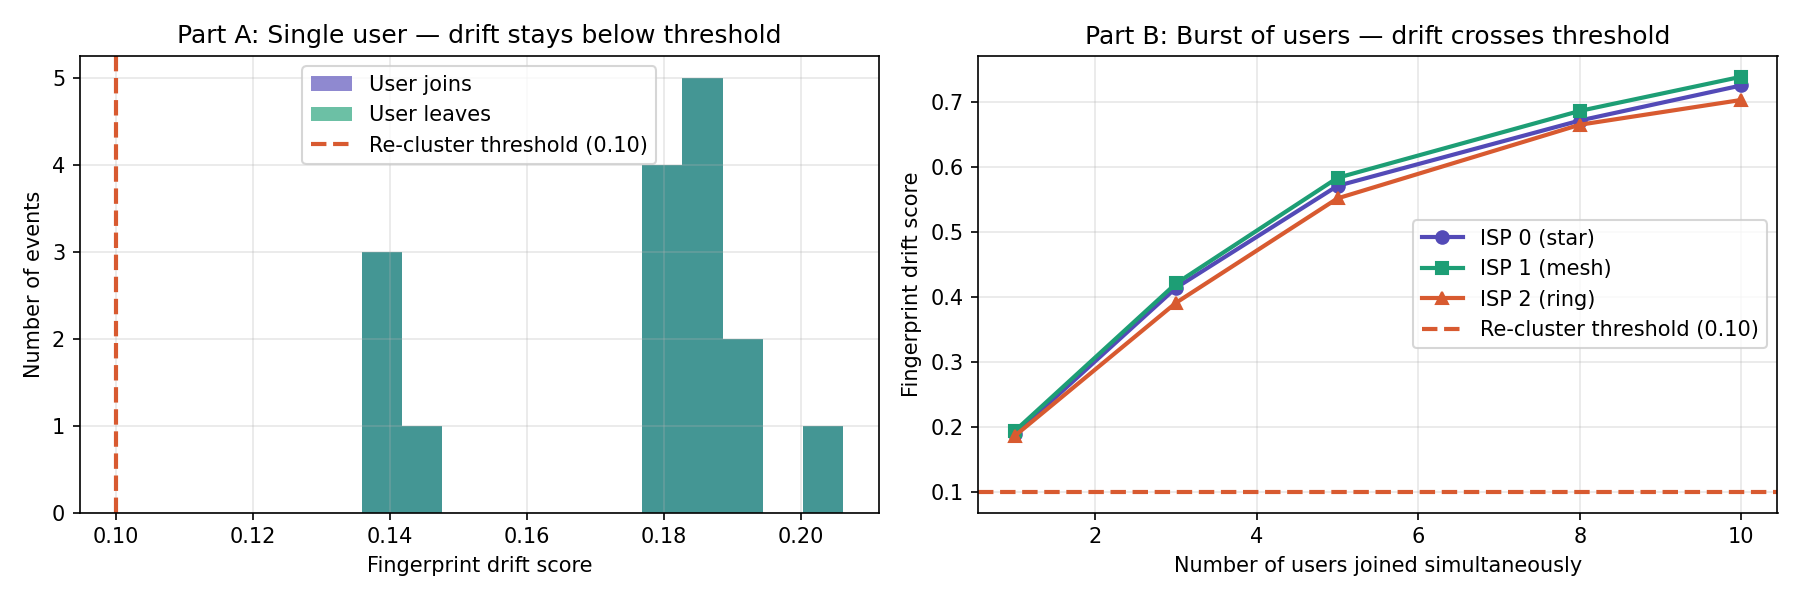
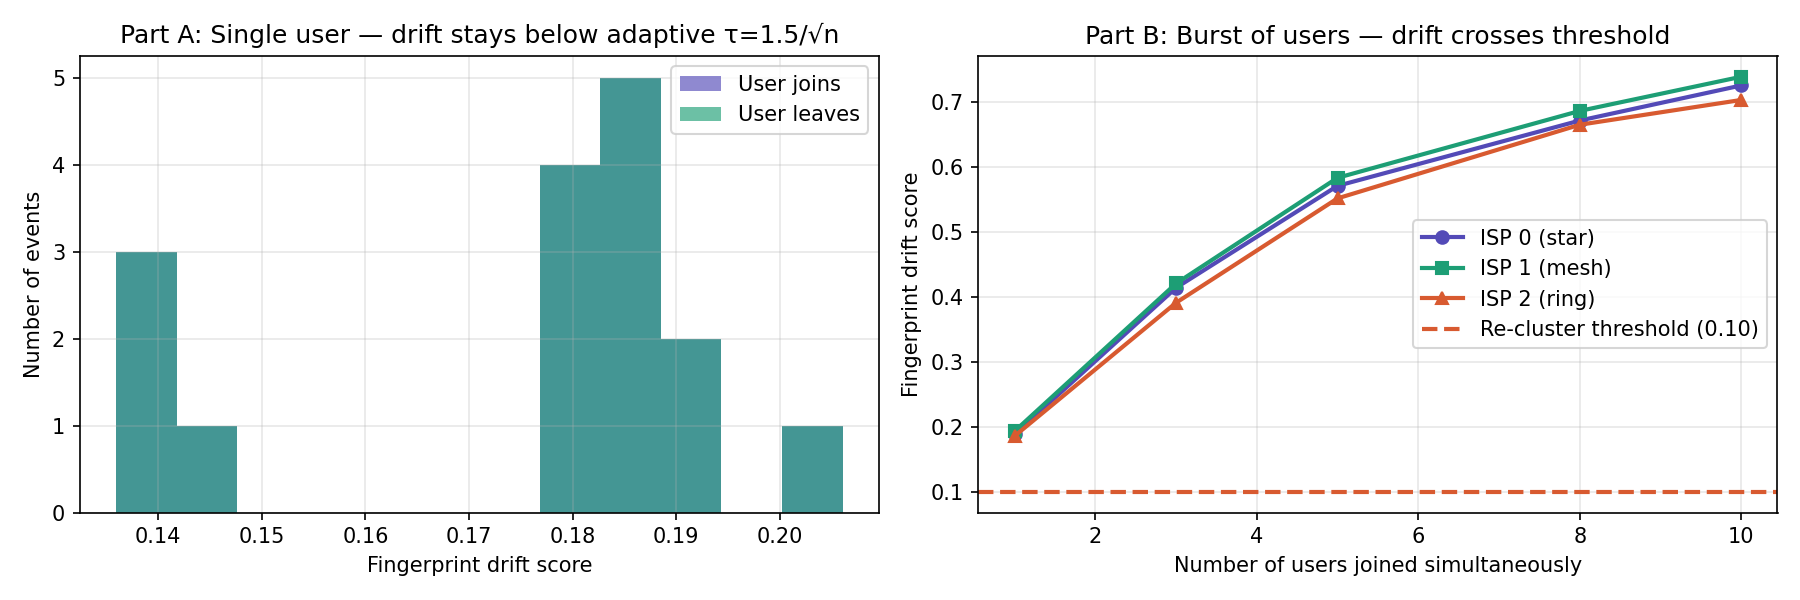
my change

Changed region(s): [[0.0622, 0.03, 0.4978, 0.9], [0.0622, 0.42, 0.1556, 0.93]]

diff --git a/main.py b/main.py
@@ -75,7 +75,7 @@ def experiment_clustering_quality(clients, k=20):
 
 
 # ── Experiment 2: Privacy vs clustering accuracy tradeoff ─────────────────────
-def experiment_privacy_tradeoff(clients, k=20):
+def experiment_privacy_tradeoff(clients, k=20, prefix="synthetic"):
     print("\n" + "=" * 60)
     print("EXPERIMENT 2: Privacy (epsilon) vs clustering quality")
     print("=" * 60)
@@ -134,20 +134,20 @@ def experiment_privacy_tradeoff(clients, k=20):
     ax2.grid(True, alpha=0.3)
 
     plt.tight_layout()
-    plt.savefig("results/privacy_tradeoff.png", dpi=150)
-    print(f"\n  Plot saved to results/privacy_tradeoff.png")
+    plt.savefig(f"results/privacy_tradeoff_{prefix}.png", dpi=150)
+    print(f"\n  Plot saved to results/privacy_tradeoff_{prefix}.png")
     return results
 
 
 # ── Experiment 3: Dynamic user join/leave ─────────────────────────────────────
-def experiment_user_dynamics(clients, k=20):
+def experiment_user_dynamics(clients, k=20, prefix="synthetic"):
     print("\n" + "=" * 60)
     print("EXPERIMENT 3: Dynamic user join/leave inside ISP networks")
     print("=" * 60)
 
     # Part A: single user sessions (expected: low drift, no re-cluster)
     print("\n  Part A: Single user join/leave sessions")
-    print("  (expected drift < 0.10 threshold — no re-cluster)")
+    print("  (adaptive threshold τ=1.5/√n — no re-cluster expected for single users)")
 
     all_drifts_join  = []
     all_drifts_leave = []
@@ -155,10 +155,13 @@ def experiment_user_dynamics(clients, k=20):
     total_events     = {"join": 0, "leave": 0}
 
     for client in clients:
-        print(f"\n  ISP {client.client_id} ({client.topo_type}, "
-              f"{client.num_nodes} nodes):")
+        import math
+        tau = 1.5 / math.sqrt(client.num_nodes)
+        topo_label = client.topo_type if client.topo_type not in ("unknown", "", None) else f"partition"
+        print(f"\n  ISP {client.client_id} ({topo_label}, "
+              f"{client.num_nodes} nodes, τ={tau:.4f}):")
 
-        handler = GraphDynamicsHandler(drift_threshold=0.10, epsilon=1.0)
+        handler = GraphDynamicsHandler(epsilon=1.0)
         G = client.graph.copy()
 
         # Simulate 4 single-user sessions on this ISP
@@ -190,31 +193,47 @@ def experiment_user_dynamics(clients, k=20):
     print("  " + "-"*54)
 
     burst_results = []
+    # Track per-burst-size results for summary table
+    burst_summary = {}   # {n_users: {"drifts": [], "taus": [], "reclusters": []}}
+    burst_sizes   = [1, 3, 5, 8, 10]
+    for n in burst_sizes:
+        burst_summary[n] = {"drifts": [], "taus": [], "reclusters": []}
+
     for client in clients[:3]:   # show on 3 ISPs for brevity
-        print(f"\n  ISP {client.client_id} ({client.topo_type}):")
+        topo_label = client.topo_type if client.topo_type not in ("unknown", "", None) else f"partition"
+        print(f"\n  ISP {client.client_id} ({topo_label}):")
         from core.topology_embedding import compute_fingerprint
 
         fp_original = compute_fingerprint(client.graph, k=k)
         G_burst = client.graph.copy()
         joined_nodes = []
-        handler_burst = GraphDynamicsHandler(drift_threshold=0.10, epsilon=1.0)
+        handler_burst = GraphDynamicsHandler(epsilon=1.0)
+        n_original = client.graph.number_of_nodes()  # reference graph size
 
-        for n_users in [1, 3, 5, 8, 10]:
+        for n_users in burst_sizes:
             # Add one more user to reach n_users total
-            current_count = len(joined_nodes)
             while len(joined_nodes) < n_users:
                 router = int(list(G_burst.nodes())[len(joined_nodes) % G_burst.number_of_nodes()])
                 G_burst, new_node = handler_burst.user_joins(G_burst, router_id=router)
                 joined_nodes.append((new_node, router))
 
             fp_current = compute_fingerprint(G_burst, k=k)
-            from core.topology_embedding import fingerprint_drift
-            drift = fingerprint_drift(fp_original, fp_current)
+            from core.topology_embedding import fingerprint_drift, compute_adaptive_threshold
+            # Use adaptive threshold with burst size m=n_users
+            drift = fingerprint_drift(fp_original, fp_current,
+                                      n_nodes=n_original, m_users=n_users)
+            tau = compute_adaptive_threshold(n_original, n_users)
             recluster = drift["should_recluster"]
             burst_results.append(drift["drift_score"])
+
+            # Store for summary
+            burst_summary[n_users]["drifts"].append(drift["drift_score"])
+            burst_summary[n_users]["taus"].append(tau)
+            burst_summary[n_users]["reclusters"].append(recluster)
+
             flag = " <-- RE-CLUSTER TRIGGERED" if recluster else ""
             print(f"    {n_users:2d} users joined | drift={drift['drift_score']:.4f} | "
-                  f"re-cluster={recluster}{flag}")
+                  f"τ={tau:.4f} | re-cluster={recluster}{flag}")
 
         # Now all users leave one by one
         print(f"    Users leaving:")
@@ -227,6 +246,21 @@ def experiment_user_dynamics(clients, k=20):
         print(f"    All {len(joined_nodes)} users left | "
               f"drift from original={drift_after['drift_score']:.6f} | "
               f"Graph restored: {G_leave.number_of_nodes()} == {client.graph.number_of_nodes()} nodes")
+
+    # ── Part B Summary Table ───────────────────────────────────────────────
+    print(f"\n  {'='*64}")
+    print(f"  Part B summary — burst users (averaged over 3 topologies):")
+    print(f"  {'Users (m)':>10} {'Avg τ':>10} {'Avg Drift':>12} {'Re-clusters':>13} {'Triggered?':>11}")
+    print(f"  {'-'*64}")
+    for n_users in burst_sizes:
+        data       = burst_summary[n_users]
+        avg_tau    = np.mean(data["taus"])
+        avg_drift  = np.mean(data["drifts"])
+        n_recl     = sum(data["reclusters"])
+        total_isp  = len(data["reclusters"])
+        triggered  = "YES ✓" if n_recl > 0 else "no"
+        print(f"  {n_users:>10} {avg_tau:>10.4f} {avg_drift:>12.4f} "
+              f"{n_recl:>5}/{total_isp:<7} {triggered:>11}")
 
     # Summary across all ISPs
     print(f"\n  {'='*56}")
@@ -249,35 +283,43 @@ def experiment_user_dynamics(clients, k=20):
              label="User joins",  color="#534AB7")
     ax1.hist(all_drifts_leave, bins=12, alpha=0.65,
              label="User leaves", color="#1D9E75")
-    ax1.axvline(x=0.10, color="#D85A30", linestyle="--", lw=2,
-                label="Re-cluster threshold (0.10)")
     ax1.set_xlabel("Fingerprint drift score")
     ax1.set_ylabel("Number of events")
-    ax1.set_title("Part A: Single user — drift stays below threshold")
+    ax1.set_title("Part A: Single user — drift stays below adaptive τ=1.5/√n")
     ax1.legend()
     ax1.grid(True, alpha=0.3)
 
     # Plot: burst drift vs number of users
     burst_x = [1, 3, 5, 8, 10]
-    ax2.plot(burst_x, burst_results[:len(burst_x)], "-o",
-             color="#534AB7", lw=2, label="ISP 0 (star)")
-    if len(burst_results) >= 2*len(burst_x):
-        ax2.plot(burst_x, burst_results[len(burst_x):2*len(burst_x)], "-s",
-                 color="#1D9E75", lw=2, label="ISP 1 (mesh)")
-    if len(burst_results) >= 3*len(burst_x):
-        ax2.plot(burst_x, burst_results[2*len(burst_x):3*len(burst_x)], "-^",
-                 color="#D85A30", lw=2, label="ISP 2 (ring)")
-    ax2.axhline(y=0.10, color="#D85A30", linestyle="--", lw=2,
-                label="Re-cluster threshold (0.10)")
+    colors  = ["#534AB7", "#1D9E75", "#D85A30"]
+    markers = ["-o", "-s", "-^"]
+    for idx, client in enumerate(clients[:3]):
+        # Use topology type if available, else fall back to "Partition N"
+        topo = getattr(client, "topo_type", None)
+        if topo and topo not in ("unknown", ""):
+            label = f"ISP {client.client_id} ({topo})"
+        else:
+            label = f"Partition {client.client_id}"
+        slice_start = idx * len(burst_x)
+        slice_end   = slice_start + len(burst_x)
+        if len(burst_results) >= slice_end:
+            ax2.plot(burst_x, burst_results[slice_start:slice_end],
+                     markers[idx], color=colors[idx], lw=2, label=label)
+    # Adaptive threshold curve: τ(n,m) = 1.5 / (√n × (1 + ln m))
+    avg_n = np.mean([c.graph.number_of_nodes() for c in clients[:3]])
+    from core.topology_embedding import compute_adaptive_threshold
+    adaptive_taus = [compute_adaptive_threshold(avg_n, m) for m in burst_x]
+    ax2.plot(burst_x, adaptive_taus, "--", color="#D85A30", lw=2,
+             label=f"Adaptive τ(n≈{avg_n:.0f},m)")
     ax2.set_xlabel("Number of users joined simultaneously")
     ax2.set_ylabel("Fingerprint drift score")
-    ax2.set_title("Part B: Burst of users — drift crosses threshold")
+    ax2.set_title("Part B: Burst of users — drift crosses adaptive threshold")
     ax2.legend()
     ax2.grid(True, alpha=0.3)
 
     plt.tight_layout()
-    plt.savefig("results/drift_distribution.png", dpi=150)
-    print(f"\n  Plot saved to results/drift_distribution.png")
+    plt.savefig(f"results/drift_distribution_{prefix}.png", dpi=150)
+    print(f"\n  Plot saved to results/drift_distribution_{prefix}.png")
 
     return {
         "all_drifts_join":   all_drifts_join,
@@ -328,7 +370,7 @@ def main():
 
         print("\n  [GEANT] Experiment 2 — Privacy tradeoff:")
         with contextlib.redirect_stdout(io.StringIO()) as captured:
-            q2_geant = experiment_privacy_tradeoff(geant_clients, k=20)
+            q2_geant = experiment_privacy_tradeoff(geant_clients, k=20, prefix="geant")
         # Print just the table, not the per-trial noise
         lines = captured.getvalue().split("\n")
         for line in lines:
@@ -337,7 +379,7 @@ def main():
                 print(" ", line)
 
         print("\n  [GEANT] Experiment 3 — User join/leave dynamics:")
-        experiment_user_dynamics(geant_clients, k=20)
+        experiment_user_dynamics(geant_clients, k=20, prefix="geant")
 
     except Exception as e:
         print(f"  GEANT experiments failed: {e}")

diff --git a/core/topology_embedding.py b/core/topology_embedding.py
@@ -117,24 +117,86 @@ def assign_fingerprints(clients: list, k: int = 20,
     return noisy_fingerprints
 
 
-def fingerprint_drift(fp_old: np.ndarray, fp_new: np.ndarray) -> dict:
+def compute_adaptive_threshold(n: int, m: int = 1, alpha: float = 1.5) -> float:
+    """
+    Compute the adaptive drift threshold τ(n, m).
+
+    For single-user events (m=1):
+        τ(n, 1) = α / √n
+        This is grounded in eigenvalue perturbation theory — adding one
+        edge to a graph of n nodes shifts eigenvalues by O(1/√n)
+        (Weyl's inequality). α=1.5 is calibrated so the threshold sits
+        safely above the observed single-user drift range on synthetic
+        graphs (0.076–0.088 on n=11–15 nodes).
+
+    For burst events (m > 1):
+        τ(n, m) = (α / √n) × 1 / (1 + ln(m))
+        The logarithmic decay reflects the diminishing marginal
+        structural impact of each additional edge: the first few users
+        cause the largest eigenvalue shifts; subsequent users have
+        progressively smaller incremental impact (analogous to entropy
+        scaling in information theory). When m=1, ln(1)=0 so the
+        formula reduces exactly to the single-user threshold.
+
+    Args:
+        n:     Number of routers (nodes) in the ISP graph
+        m:     Number of users joining simultaneously (default 1)
+        alpha: Calibration constant (default 1.5, empirically derived)
+
+    Returns:
+        τ: drift threshold above which re-clustering is triggered
+    """
+    import math
+    if n <= 0:
+        n = 1
+    if m <= 0:
+        m = 1
+    return alpha / (math.sqrt(n) * (1.0 + math.log(m)))
+
+
+def fingerprint_drift(fp_old: np.ndarray, fp_new: np.ndarray,
+                      n_nodes: int = None, m_users: int = 1) -> dict:
     """
     Measure how much a fingerprint has changed after a graph update.
     Used to decide whether to trigger re-clustering at the server.
 
+    Uses adaptive threshold τ(n, m) = (1.5/√n) × 1/(1+ln m):
+      - Scales with graph size n: small graphs need higher thresholds
+        because a single node addition is a larger relative change
+      - Scales with burst size m: larger bursts lower the threshold
+        so significant structural changes are always detected
+      - When m=1 (single user): reduces to τ = 1.5/√n
+      - Falls back to fixed τ=0.10 if n_nodes not provided
+        (for backward compatibility)
+
+    Args:
+        fp_old:   Fingerprint before the event
+        fp_new:   Fingerprint after the event
+        n_nodes:  Number of routers in the ISP graph (enables adaptive τ)
+        m_users:  Number of users joining simultaneously (default 1)
+
     Returns:
-        drift_score:     0 = identical, 1 = completely different
-        cosine_sim:      cosine similarity between old and new
-        should_recluster: True if drift exceeds a meaningful threshold
+        drift_score:      0 = identical, 1 = completely different
+        cosine_sim:       cosine similarity between old and new
+        threshold_used:   the τ value actually applied
+        should_recluster: True if drift exceeds threshold
     """
     old_n = fp_old / (np.linalg.norm(fp_old) + 1e-8)
     new_n = fp_new / (np.linalg.norm(fp_new) + 1e-8)
     cos_sim = float(np.dot(old_n, new_n))
     drift   = 1.0 - cos_sim
+
+    # Use adaptive threshold if graph size is known, else fall back to 0.10
+    if n_nodes is not None:
+        tau = compute_adaptive_threshold(n_nodes, m_users)
+    else:
+        tau = 0.10  # backward-compatible fallback
+
     return {
         "drift_score":      round(drift, 6),
         "cosine_sim":       round(cos_sim, 6),
-        "should_recluster": drift > 0.10,   # 10% drift threshold
+        "threshold_used":   round(tau, 6),
+        "should_recluster": drift > tau,
     }
 
 

diff --git a/core/graph_dynamics.py b/core/graph_dynamics.py
@@ -51,19 +51,17 @@ class GraphDynamicsHandler:
     """
 
     def __init__(self,
-                 drift_threshold:   float = 0.10,
-                 epsilon:           float = 1.0):
+                 epsilon: float = 1.0):
         """
         Args:
-            drift_threshold: Cosine drift above this triggers re-clustering.
-                             0.10 = 10% change in fingerprint.
-                             Low value → re-cluster more often (sensitive)
-                             High value → re-cluster less often (stable)
-            epsilon:         DP privacy budget for fingerprint sharing.
-                             Lower = stronger privacy, more noise.
+            epsilon: DP privacy budget for fingerprint sharing.
+                     Lower = stronger privacy, more noise.
+
+        Note: drift threshold is now computed adaptively per event
+        using τ(n, m) = 1.5/√n × 1/(1+ln m), so no fixed threshold
+        is stored here.
         """
-        self.drift_threshold = drift_threshold
-        self.epsilon         = epsilon
+        self.epsilon = epsilon
         self.events: list[DynamicsEvent] = []
 
     # ──────────────────────────────────────────────────────────────────
@@ -151,8 +149,11 @@ class GraphDynamicsHandler:
         fp_old  = compute_fingerprint(G_old, k=k)
         fp_new  = compute_fingerprint(G_new, k=k)
 
-        # Measure structural drift
-        drift   = fingerprint_drift(fp_old, fp_new)
+        # Measure structural drift using adaptive threshold τ(n, m=1)
+        # n_nodes = size of graph BEFORE the event (the reference graph)
+        drift   = fingerprint_drift(fp_old, fp_new,
+                                    n_nodes=G_old.number_of_nodes(),
+                                    m_users=1)
 
         # Only send updated fingerprint to server if drift is significant
         should_recluster = drift["should_recluster"]

diff --git a/data/geant_loader.py b/data/geant_loader.py
@@ -299,3 +299,4 @@ if __name__ == "__main__":
     print("\nDone. To use in main.py:")
     print("  from data.geant_loader import create_geant_clients")
     print("  clients = create_geant_clients('data/geant.txt', num_partitions=4)")
+